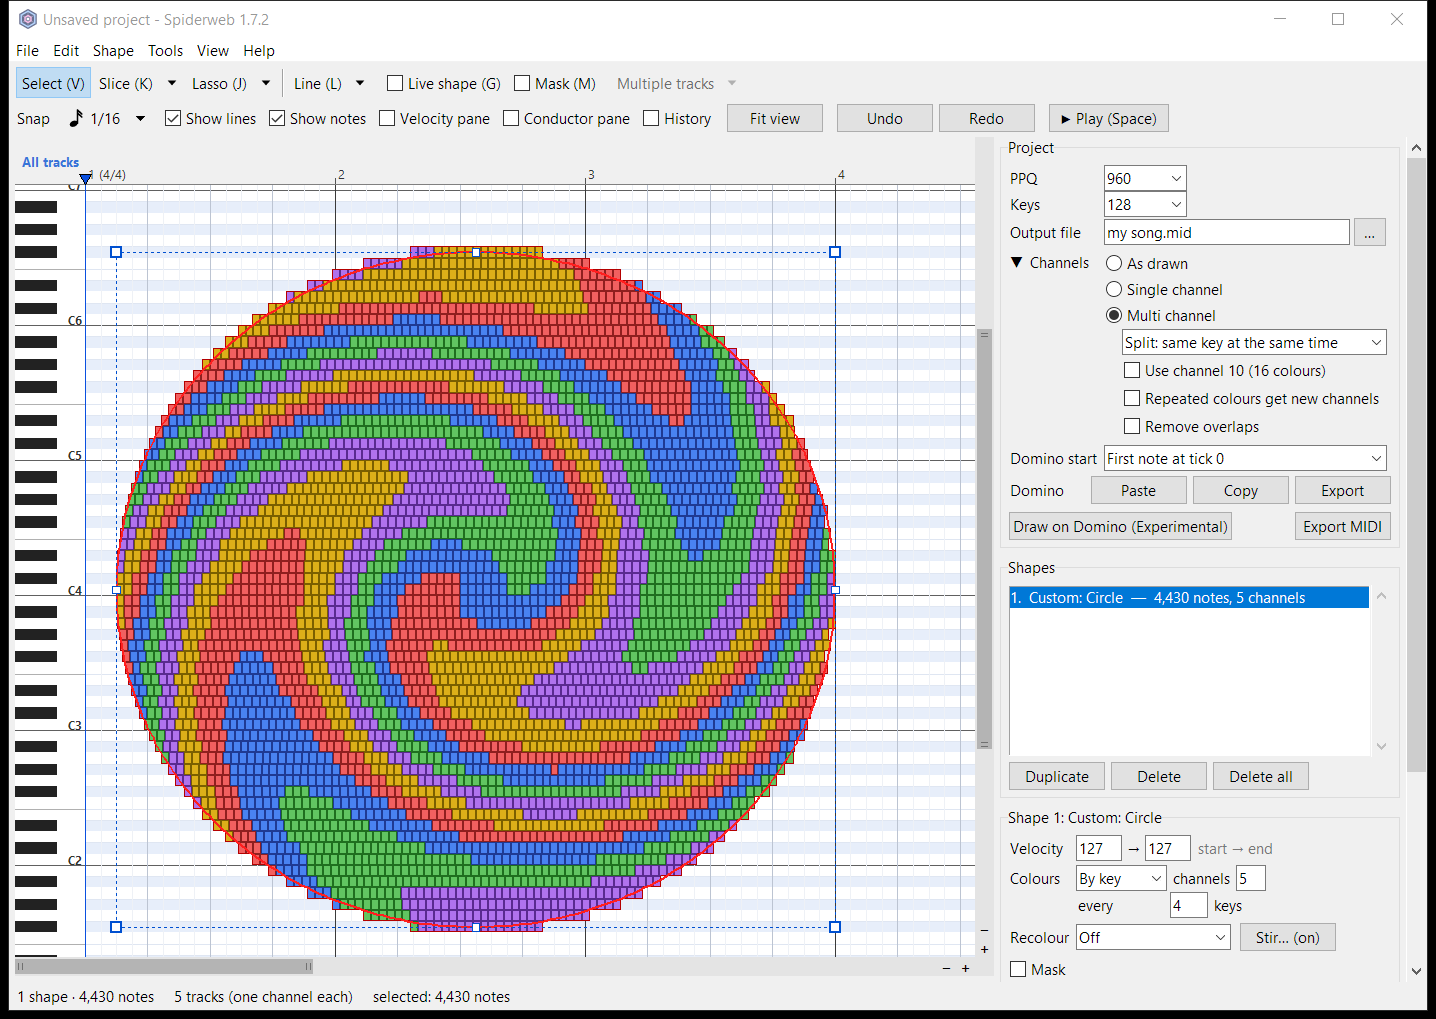
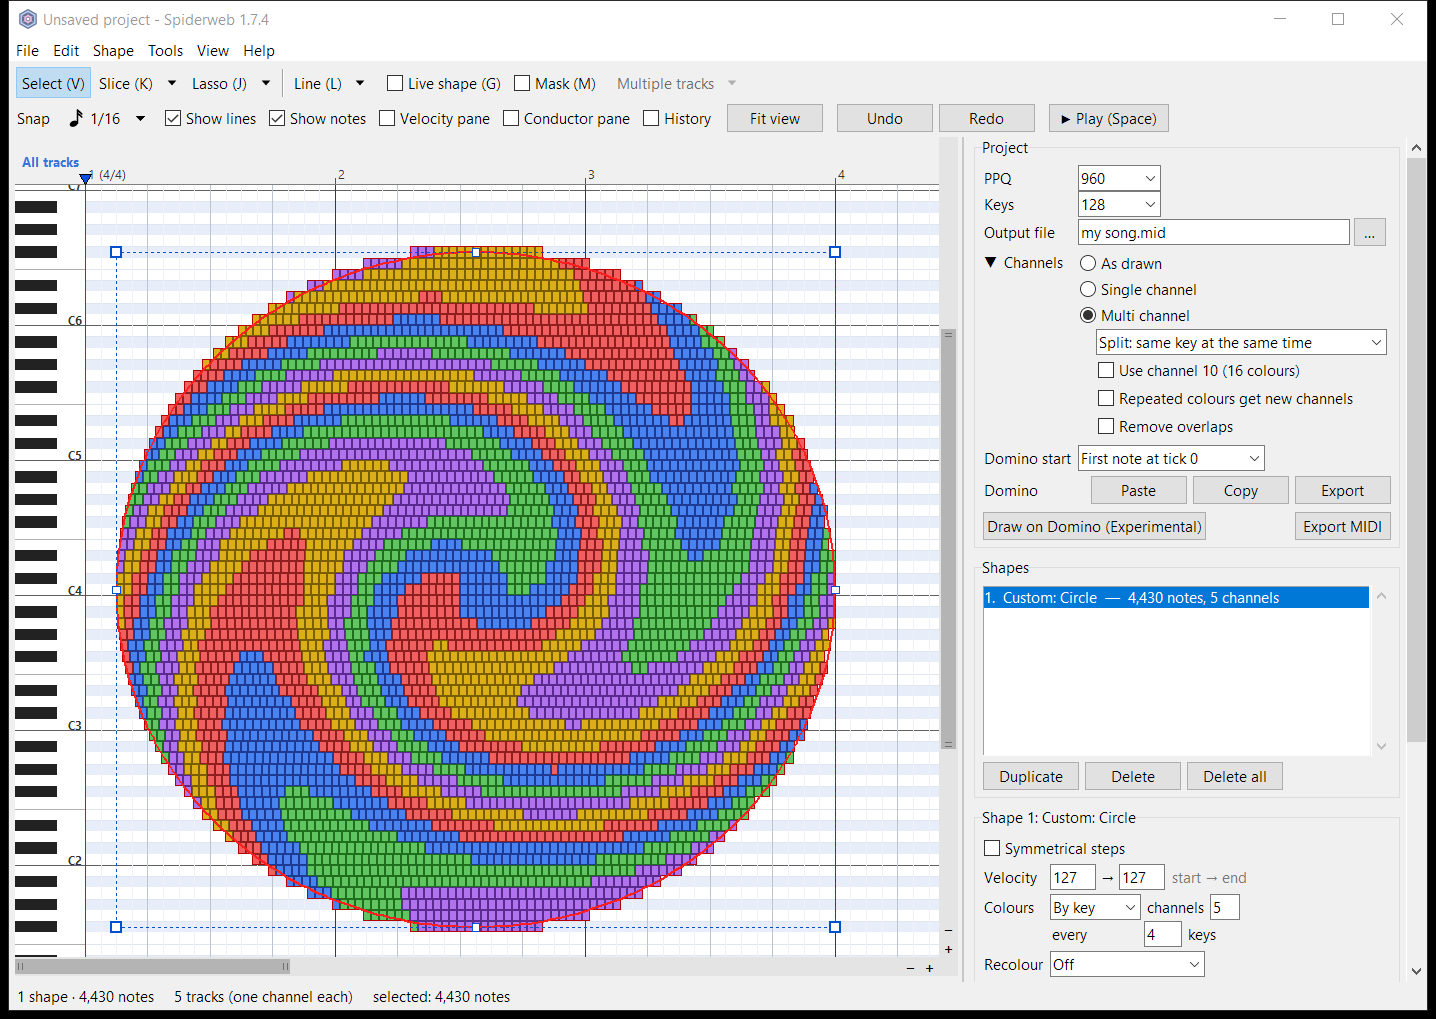
Version 1.7.4 and its README pictures

Changed region(s): [[0.6435, 0.1217, 0.9499, 0.9735], [0.9805, 0.7301, 1.0, 0.7605], [0.1838, 0.9431, 0.2145, 0.9735]]

diff --git a/scripts/files/about.py b/scripts/files/about.py
@@ -3,7 +3,7 @@
 import os
 import sys
 
-VERSION = "1.7.3"
+VERSION = "1.7.4"
 try:  # (written by build_version.py for a build: its commit + day, so builds with one version can be told apart)
     from files.build_stamp import BUILD
 except ImportError:
